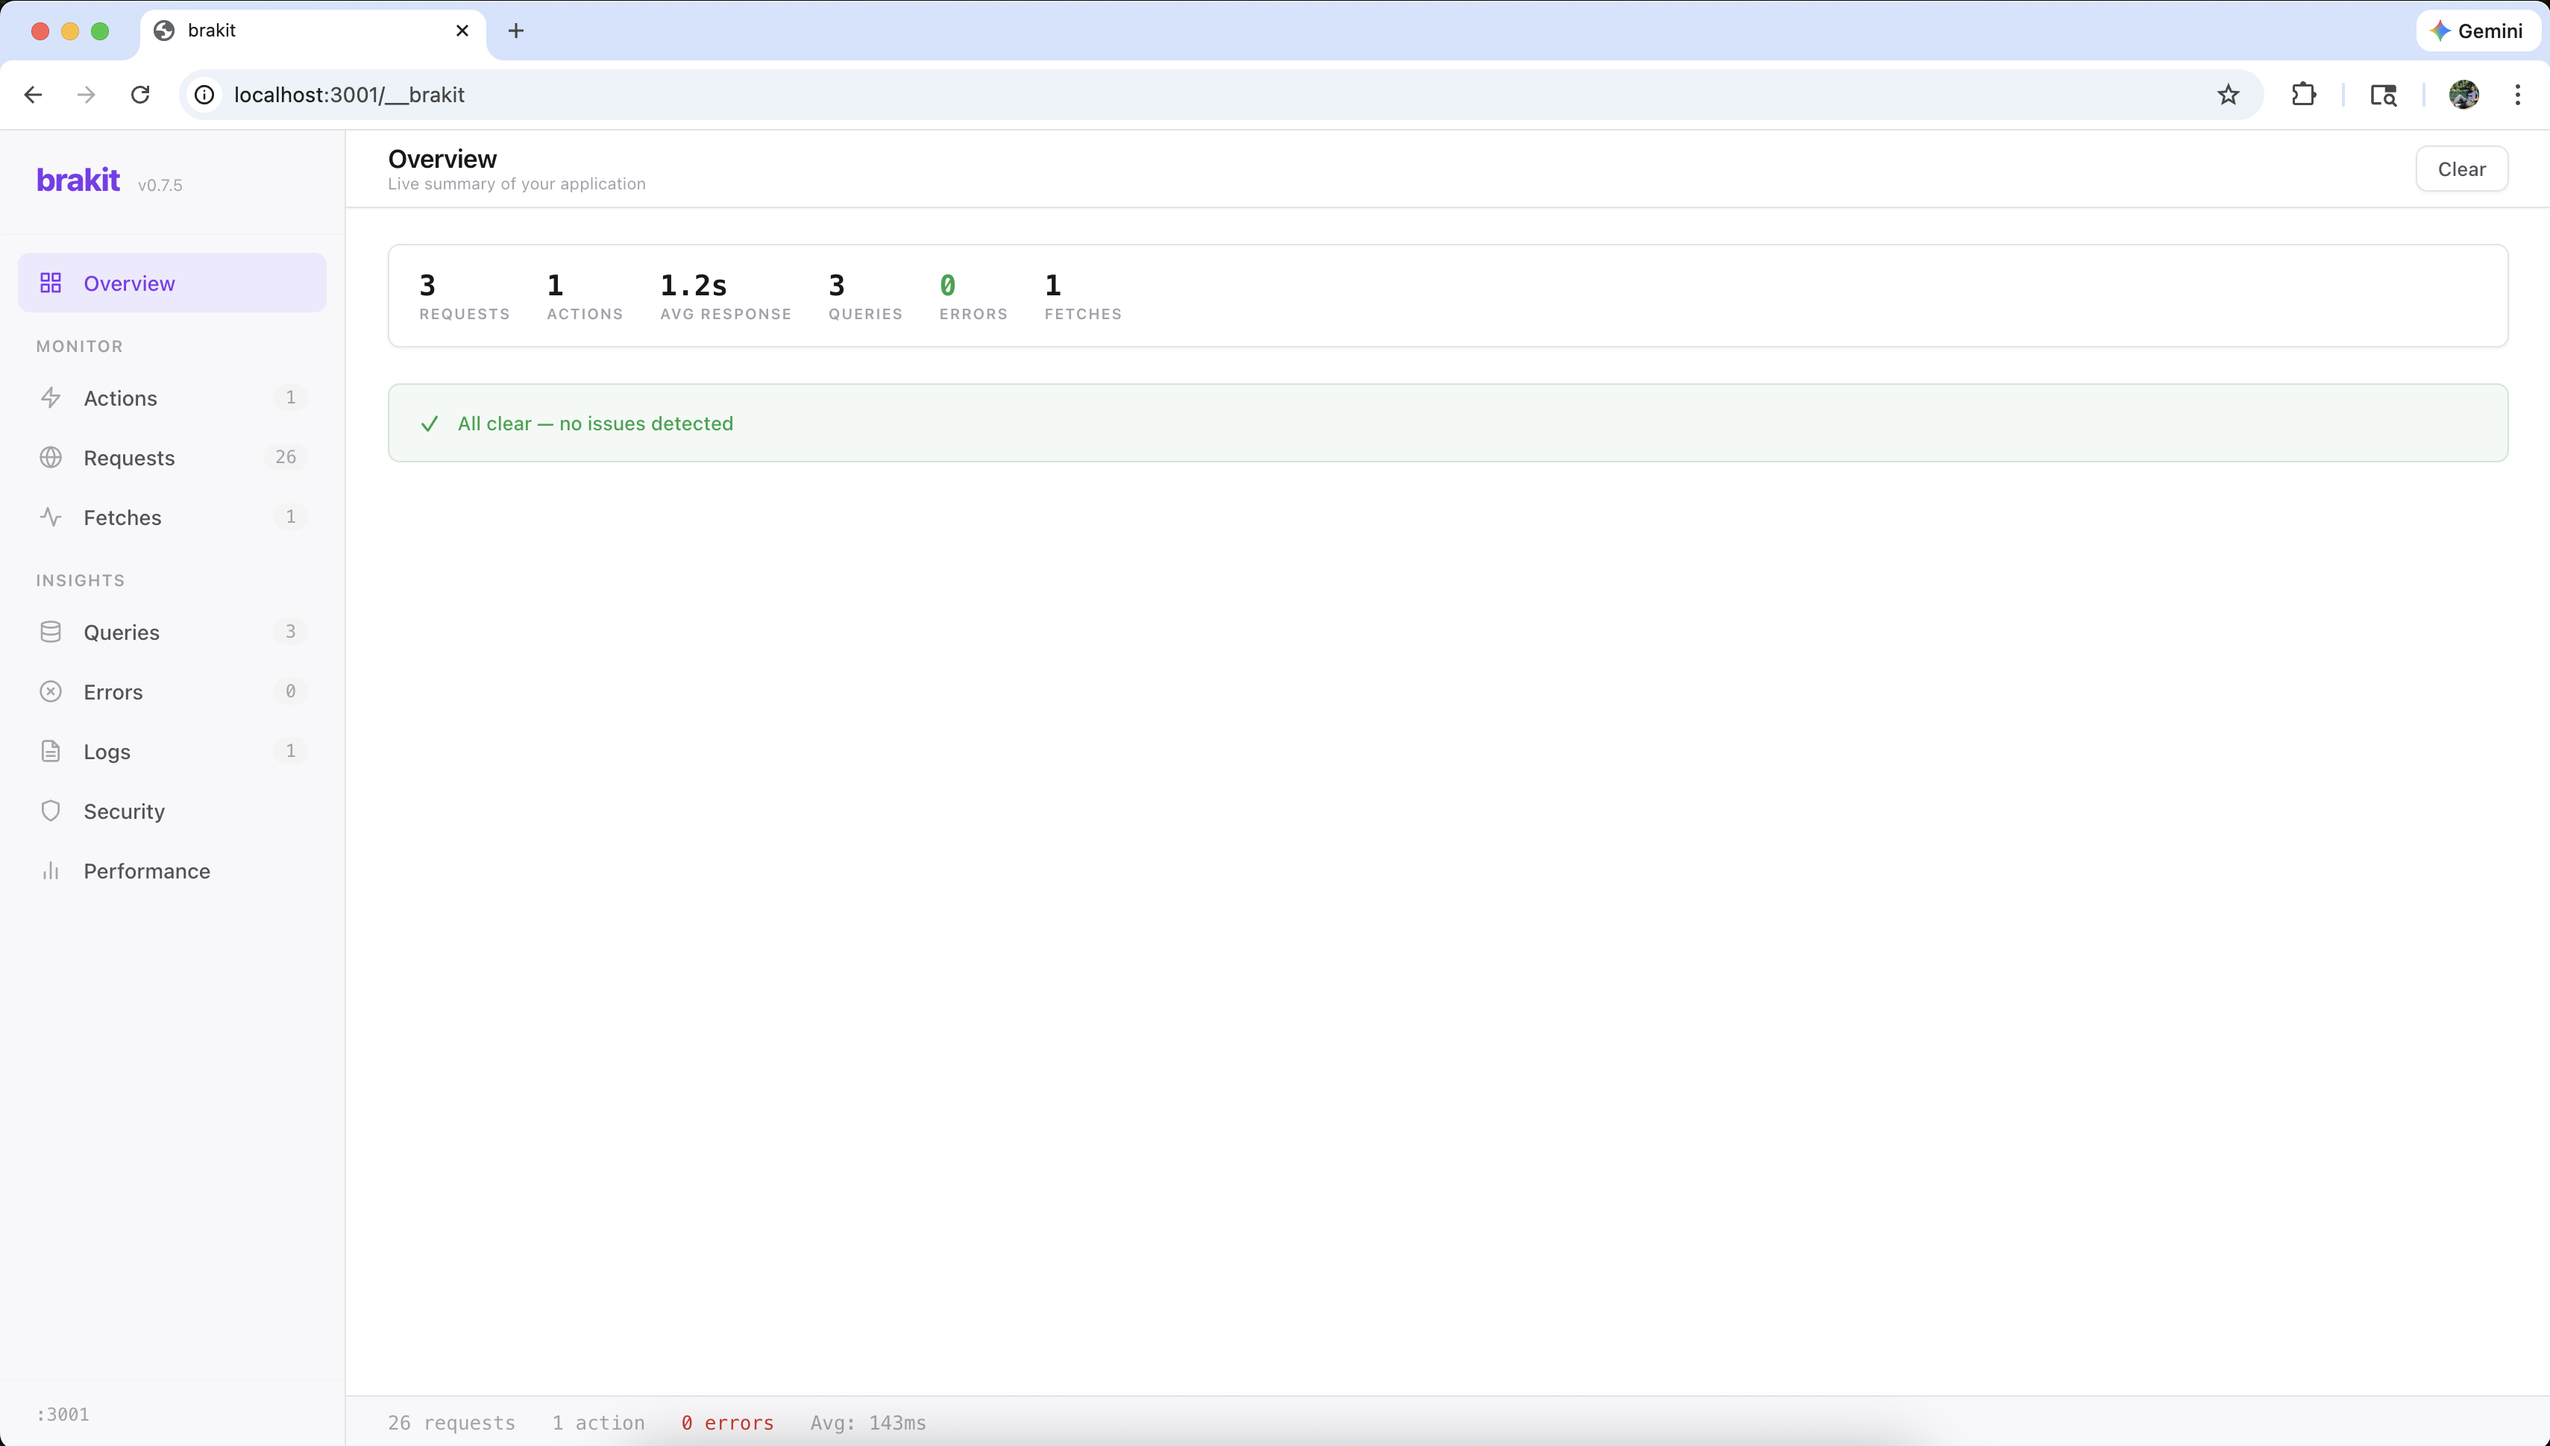
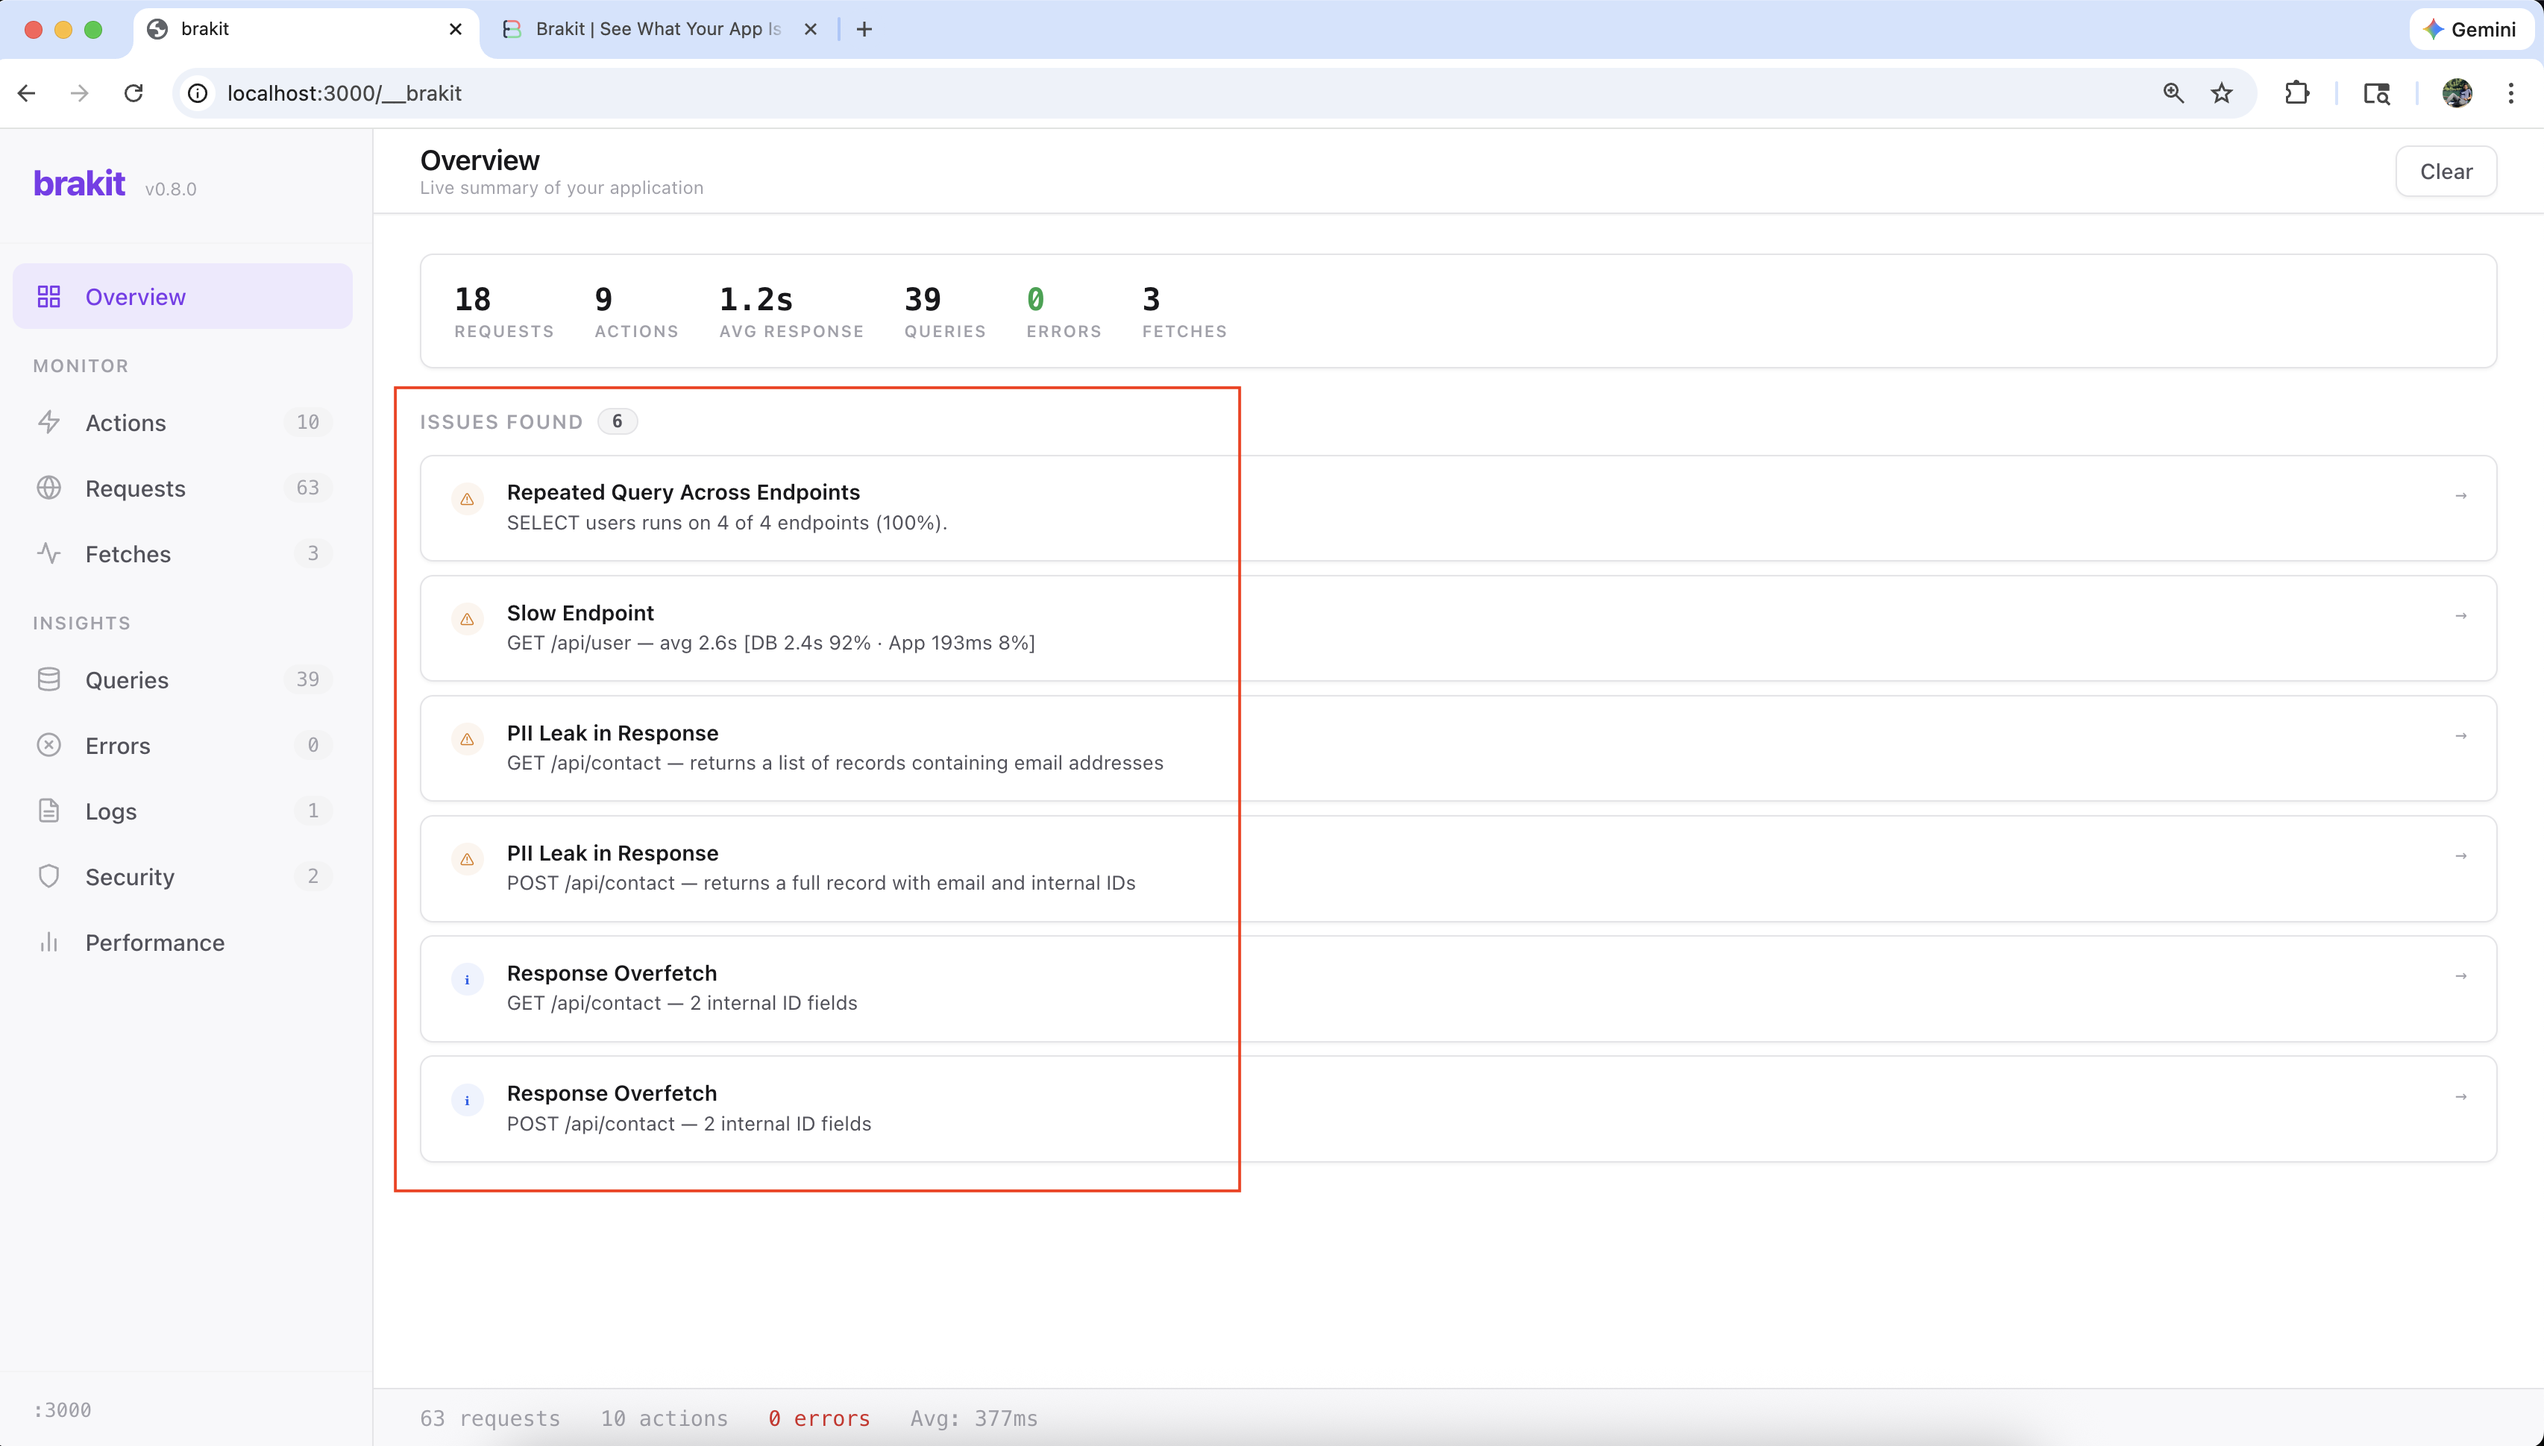
Add screenshot to readme (#12)

diff --git a/README.md b/README.md
@@ -3,7 +3,7 @@
 <p align="center">
   <b>See what your app is actually doing.</b> <br />
   Every request, query, and security issue — before you ship. <br />
-  <b>Open source · Local only · Zero config · 2 dependencies</b>
+  <b>Open source · Local first · Zero config · 2 dependencies</b>
 </p>
 
 <h3 align="center">
@@ -22,6 +22,9 @@
   <a href="https://typescriptlang.org">
     <img src="https://img.shields.io/badge/built%20with-TypeScript-3178c6.svg" alt="TypeScript" />
   </a>
+  <a href="https://www.npmjs.com/package/brakit">
+    <img src="https://img.shields.io/npm/v/brakit" alt="npm version" />
+  </a>
   <a href="CONTRIBUTING.md">
     <img src="https://img.shields.io/badge/PRs-Welcome-brightgreen" alt="PRs welcome!" />
   </a>
@@ -30,7 +33,15 @@
 ---
 
 <p align="center">
-  <img width="700" src="docs/images/dashboard.png" alt="Brakit Dashboard" />
+  <img width="700" src="docs/images/dashboard.png" alt="Brakit Dashboard — issues surfaced automatically" />
+  <br />
+  <sub>Brakit catches N+1 queries, PII leaks, and slow endpoints as you develop</sub>
+</p>
+
+<p align="center">
+  <img width="700" src="docs/images/vscode.png" alt="Claude reading Brakit findings in VS Code" />
+  <br />
+  <sub>Claude reads findings via MCP and fixes your code</sub>
 </p>
 
 ## Quick Start
